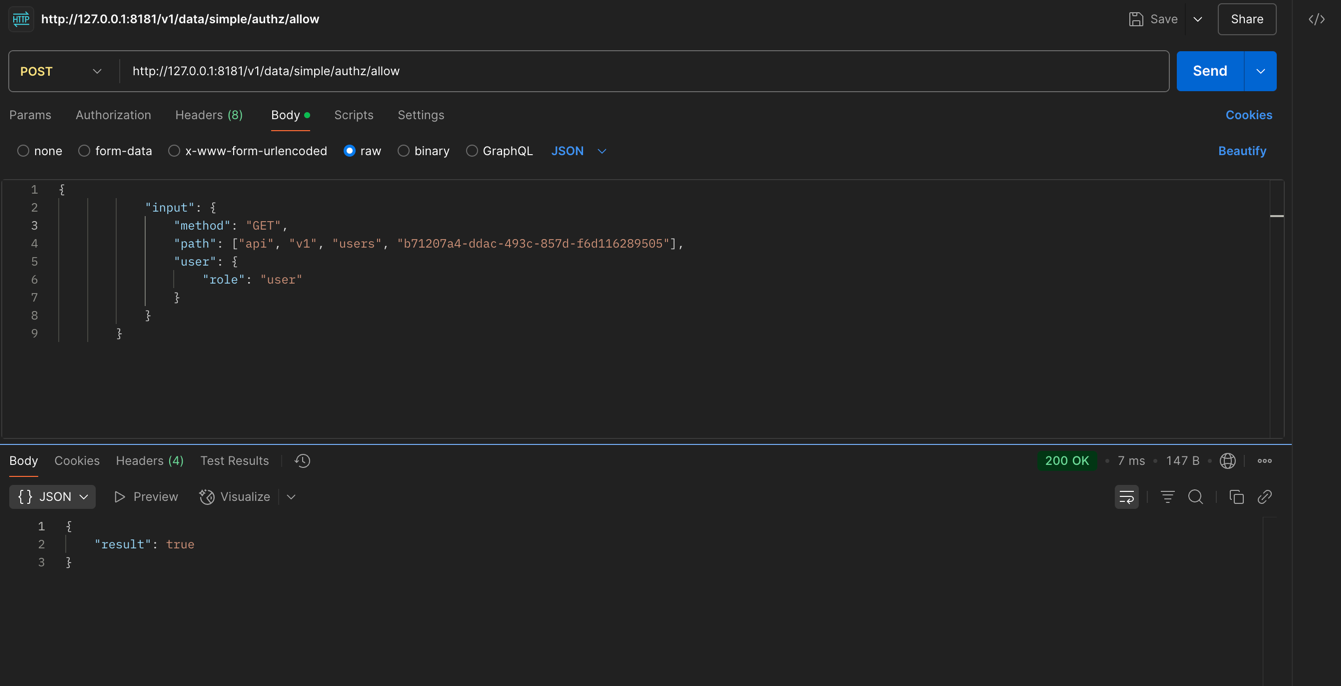
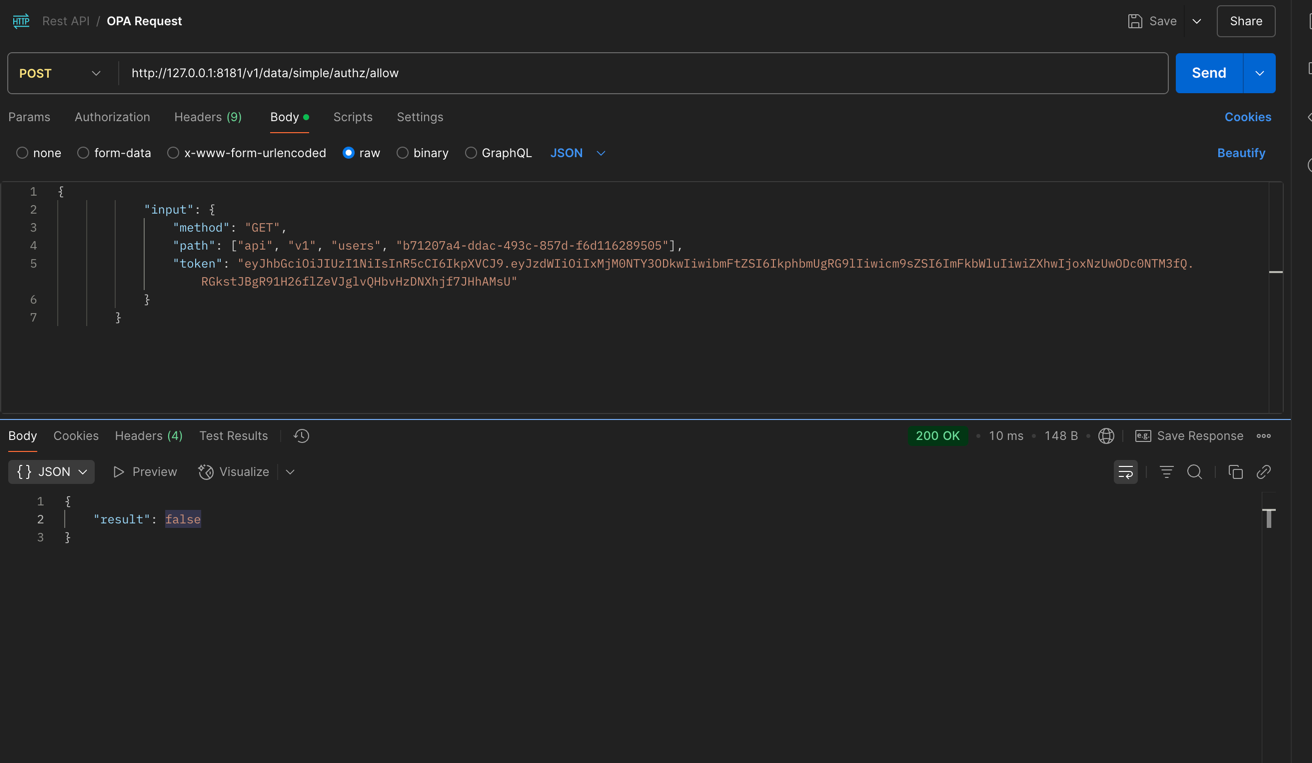
Modified to user JWT token

diff --git a/simple-opa-integration/scripts/validate_policy.py b/simple-opa-integration/scripts/validate_policy.py
@@ -1,0 +1,46 @@
+import jwt
+import datetime
+import json
+import http.client
+
+SECRET = "mysecret"
+
+payload = {
+    "sub": "1234567890",
+    "name": "Jane Doe",
+    "role": "admin",
+    "exp": datetime.datetime.now(datetime.UTC) + datetime.timedelta(hours=1),
+}
+
+token = jwt.encode(payload, SECRET, algorithm="HS256")
+print("🔐 Generated JWT:\n", token)
+
+opa_input = {
+    "input": {
+        "token": token,
+        "method": "GET",
+        "path": ["users"]
+    }
+}
+opa_input_json = json.dumps(opa_input)
+
+conn = http.client.HTTPConnection("authz-service", 8181)
+headers = {
+    "Content-Type": "application/json"
+}
+print("\n📡 Sending request to OPA...")
+
+conn.request(
+    "POST",
+    "/v1/data/simple/authz",
+    body=opa_input_json,
+    headers=headers
+)
+
+response = conn.getresponse()
+response_body = response.read().decode()
+
+print("\n📥 OPA Response:")
+print(response_body)
+
+conn.close()

diff --git a/simple-opa-integration/simple_opa_integration/middleware/authz_middleware.py b/simple-opa-integration/simple_opa_integration/middleware/authz_middleware.py
@@ -6,9 +6,9 @@ from simple_opa_integration.services.authorization_service import AuthorizationS
 
 def register_auth_middleware():
     async def auth_middleware(request):
+        token = request.headers.get("Authorization", "").removeprefix("Bearer ").strip()
         auth_service = Container.resolve(AuthorizationService)
-        user_role = request.headers.get("x-role", "guest")
-        response = await auth_service.is_allowed(user_role, request.method, request.path)
+        response = await auth_service.is_allowed(token, request.method, request.path)
         if not response.get('allow', False):
             raise Forbidden("Access Denied")
     return auth_middleware

diff --git a/simple-opa-integration/simple_opa_integration/services/authorization_service.py b/simple-opa-integration/simple_opa_integration/services/authorization_service.py
@@ -7,14 +7,12 @@ class AuthorizationService:
     def __init__(self, config: AuthConfig):
         self.config = config
 
-    async def is_allowed(self, user_role: str, method: str, path: str) -> bool:
+    async def is_allowed(self, token: str, method: str, path: str) -> bool:
         input_data = {
             "input": {
                 "method": method,
                 "path": path.strip("/").split("/"),
-                "user": {
-                    "role": user_role
-                }
+                "token": token
             }
         }
         async with aiohttp.ClientSession() as session:

diff --git a/simple-opa-integration/scripts/generate_token.py b/simple-opa-integration/scripts/generate_token.py
@@ -1,0 +1,14 @@
+import jwt
+import datetime
+
+SECRET = "mysecret"
+
+payload = {
+    "sub": "1234567890",
+    "name": "Jane Doe",
+    "role": "admin",
+    "exp": datetime.datetime.now(datetime.UTC) + datetime.timedelta(hours=1),
+}
+
+token = jwt.encode(payload, SECRET, algorithm="HS256")
+print(token)

diff --git a/simple-opa-integration/README.md b/simple-opa-integration/README.md
@@ -1,10 +1,10 @@
 # Simple OPA Integration Project
 
-## 🔍 Project Overview
-
 This Python project is a **proof of concept** demonstrating the integration of [Open Policy Agent (OPA)](https://www.openpolicyagent.org/) for **authorization of a REST API**. 
 
-## ✨ Features
+## Development Guideline
+
+### ✨ Features
 
 * 📦 Python 3.11 with [Poetry](https://python-poetry.org/) for dependency and virtualenv management
 * 🧹 Code Quality:
@@ -16,9 +16,7 @@ This Python project is a **proof of concept** demonstrating the integration of [
 * 🐳 Docker support
 * 🔐 Open Policy Agent (OPA) integration for dynamic API authorization
 
----
-
-## 🚀 Usage
+### 🚀 Usage
 
 ```bash
 ❯ make help
@@ -50,36 +48,43 @@ Available commands:
   test            Run tests with Pytest and show coverage
 ```
 
-## API, Middleware and OPA Integration
 
 ### 🔐 Authentication Middleware
 
-This project uses a custom **authentication middleware** that extracts the user role from the incoming HTTP request headers and delegates access control decisions to the `AuthorizationService`.
+### Code Structure
 
-#### 📌 Header-Based Role Identification
+### OPA Policies
 
-The middleware expects a custom HTTP header `x-role` to identify the user's role (e.g., `admin`, `user`, `guest`).
+The policies are split into reusable packages:
 
-If the header is **missing**, it **defaults to `guest`**, which typically has **no access rights**, following the **Principle of Least Privilege** — users are granted only the minimum access necessary. As a result, such requests are rejected unless explicitly permitted for the `guest` role.
+* `common.jwt_utils`: Responsible for decoding and verifying JWTs
+* `simple.authz`: Implements authorization rules using decoded claims
 
-* `x-role`: Custom header used to indicate the user's role
-* Defaults to `guest` if missing
-* Uses `AuthorizationService` to verify access
-* Rejects requests that are not authorized for the role
-
-### ✅ Example Request
-
-```http
-GET /users HTTP/1.1
-Host: localhost:8080
-x-role: admin
+```
+deployment/authz/policies/
+├── common/
+│   └── jwt_utils.rego     # JWT decode & verification logic
+├── authz/
+│   └── policy.rego        # Authorization rules using decoded token
 ```
 
-If `x-role` is omitted:
+---
+
+## API, Middleware and OPA Integration
+
+### 🔐 Authentication with JWT
+
+The middleware uses the `Authorization` HTTP header to extract a **JWT token**. This token contains the user's role, which is verified and decoded securely using OPA.
+
+1. `Authorization: Bearer <JWT_TOKEN>` is passed with the request
+2. Middleware forwards the token, method, and path to OPA
+3. OPA decodes and verifies the token
+4. Access is allowed or denied based on decoded role
 
 ```http
 GET /users HTTP/1.1
 Host: localhost:8080
+Authorization: Bearer eyJhbGciOiJIUzI1NiIsInR5cCI6IkpXVCJ9...
 ```
 
 ### 👤 UserController – API Overview
@@ -179,18 +184,17 @@ Rego policy for `GET` endpoint:
 
 ```rego
 package simple.authz
+import data.common.utils.is_valid_uuid
+import data.common.utils.jwt.decode_token
 
 default allow = false
 
-allow {
-    input.role == "admin"
-}
-
 allow if {
+    claims := decode_token(input.token)
+    claims.role in {"admin", "viewer"}
     input.method == "GET"
     input.path = ["api", "v1", "users", user_id]
     is_valid_uuid(user_id)
-    input.user.role in {"admin", "viewer"}
 }
 
 ```
@@ -199,11 +203,26 @@ Figure 2 illustrates a API call to OPA using Postman
 
 ![Execution](docs/postman.png)
 
-Example using Curl
-```
-	@curl -X POST http://127.0.0.1:8181/v1/data/simple/authz/allow \
-      -H "Content-Type: application/json" \
-      -d '{"input": {"method": "GET", "path": ["api", "v1", "users", "b71207a4-ddac-493c-857d-f6d116289505"], "user": {"role": "viewer"}}}'
+```bash
+❯ AUTHZ_PROFILE=authz-v2 make start
+docker compose --profile authz-v2 up -d
+[+] Running 2/0
+ ✔ Container bundle-server     Running                                                                                                                                                                                                          0.0s
+ ✔ Container authz-service-v2  Running                                                                                                                                                                                                          0.0s
+[+] Running 1/0
+ ✔ Container simple-opa-integration  Running                                                                                                                                                                                                    0.0s
+❯ make policy_test
+WARNING: Running pip as the 'root' user can result in broken permissions and conflicting behaviour with the system package manager, possibly rendering your system unusable. It is recommended to use a virtual environment instead: https://pip.pypa.io/warnings/venv. Use the --root-user-action option if you know what you are doing and want to suppress this warning.
+
+[notice] A new release of pip is available: 25.0.1 -> 25.1.1
+[notice] To update, run: pip install --upgrade pip
+🔐 Generated JWT:
+ eyJhbGciOiJIUzI1NiIsInR5cCI6IkpXVCJ9.eyJzdWIiOiIxMjM0NTY3ODkwIiwibmFtZSI6IkphbmUgRG9lIiwicm9sZSI6ImFkbWluIiwiZXhwIjoxNzUwODc3NDk4fQ.2thGSPs6t3AMZGAvW-XiXDHvDbyF-Sce4HaKK2b-WD8
+
+📡 Sending request to OPA...
+
+📥 OPA Response:
+{"decision_id":"61ee564a-d5a3-4e79-9e08-5d06089208af","result":{"allow":false}}
 ```
 
 ---
